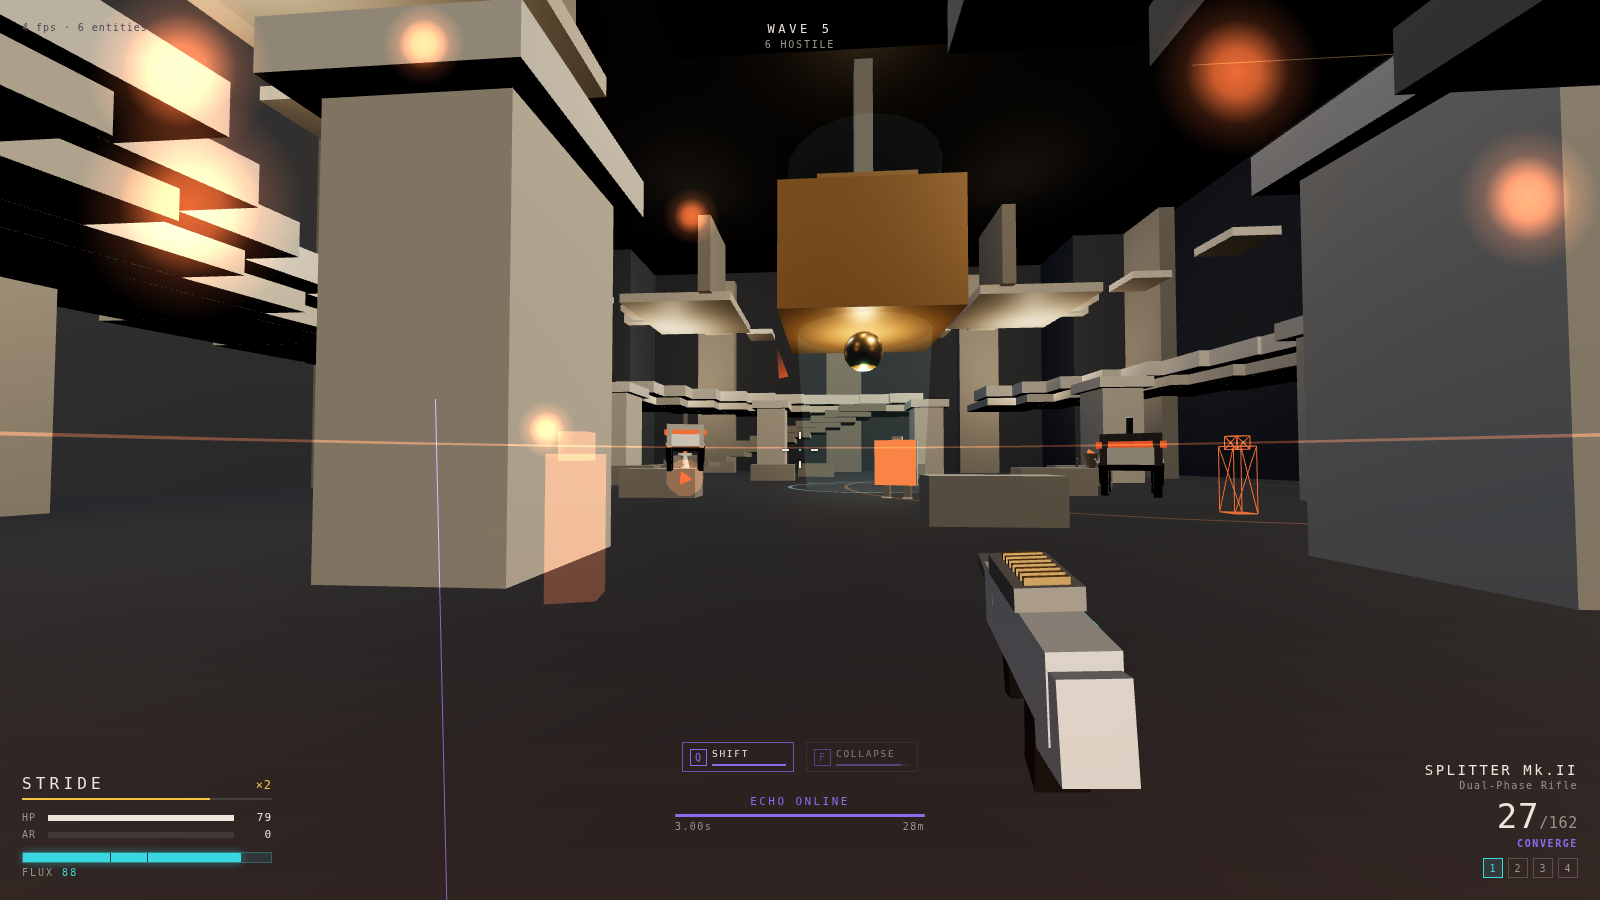
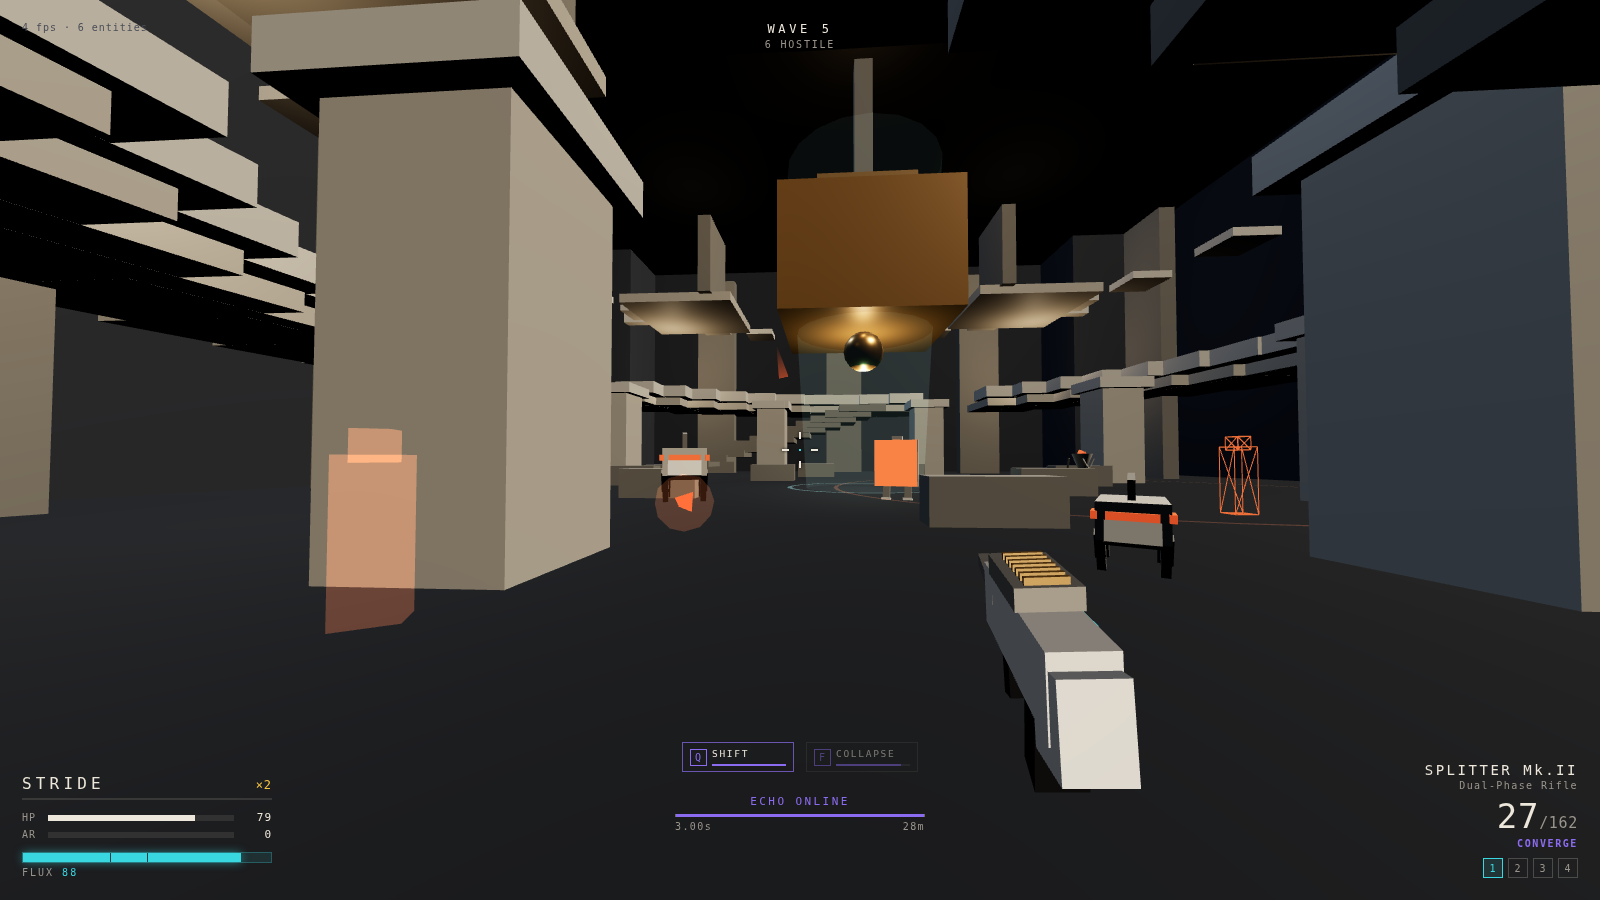
Polish pass: fixes the smoke test and the screenshots found
Four real defects, three of which were only visible by looking at what the
game actually renders rather than at what the code says:

- Monolith plating was omnidirectional. The design says the plate covers only
  the front 150 degrees so that "get behind it" is a real answer alongside
  "resonate through it", and isFrontal() existed but was never called. Wired
  it into the damage pipeline and covered it in the smoke test: a back shot
  now deals full damage with the plate intact, a frontal one is fully absorbed.

- Impact particles spawned on the player. A size-attenuated additive sprite
  60 cm from the eye is a 120-pixel disc pasted over the middle of the fight,
  and several at once blind you exactly when you need to see. Sparks within
  1.15 m of the camera are now discarded; the hurt flash, the directional
  indicator and the audio already carry that information.

- Particles were square. PointsMaterial with no map renders hard squares.
  Added a radial-gradient sprite generated into a canvas at load time, which
  keeps the promise that there is not one asset file in this repository.

- The arena was lit by four over-driven point lights that blew out into
  circular pools on every balcony underside. Retuned, and added lamps on the
  balcony ring so the upper shaft is navigable instead of black.

Also:
- README.de.md, since the project was commissioned in German.
- The smoke test reports renderer statistics; a full arena with a wave of
[…]

diff --git a/src/engine/Fx.js b/src/engine/Fx.js
@@ -109,6 +109,20 @@ export class Fx {
     this.shake = 0;
     /** Consumed by the HUD each frame. */
     this.hudEvents = [];
+    /** Updated every frame in step(); used to cull sparks born in your face. */
+    this.cameraPos = new THREE.Vector3();
+    /**
+     * Sparks spawned closer than this to the eye are discarded.
+     *
+     * When a Warden connects, the impact effect is spawned at the point it
+     * hit -- which is you. A size-attenuated additive particle 60 cm from the
+     * camera is not an effect, it is a 120-pixel orange disc pasted over the
+     * middle of the fight, and several of them at once blind you at exactly
+     * the moment you most need to see. The player already learns they were
+     * hit from the hurt flash, the directional indicator and the audio, so
+     * the particles are pure cost.
+     */
+    this.minSparkDistance = 1.15;
   }
 
   tracer(from, to, src = 'player', width = 1) {
@@ -129,6 +143,7 @@ export class Fx {
   }
 
   spark(pos, normal, count, src = 'player', speed = 5, colorOverride) {
+    if (pos.distanceToSquared(this.cameraPos) < this.minSparkDistance ** 2) return;
     const c = new THREE.Color(colorOverride ?? srcColor(src));
     for (let n = 0; n < count; n++) {
       const i = this.sparkHead;
@@ -224,6 +239,7 @@ export class Fx {
 
   step(dt, camera) {
     this.now += dt;
+    if (camera) this.cameraPos.copy(camera.position);
 
     for (let i = 0; i < this.maxTracers; i++) {
       if (this.tracerLife[i] <= 0) continue;

diff --git a/README.de.md b/README.de.md
@@ -1,0 +1,131 @@
+<div align="center">
+
+# ECHOSTRIDE
+
+### Kämpfe an der Seite des Geistes, der du warst.
+
+**Ein First-Person-Shooter, gebaut um eine einzige Idee:**
+*Eine Kopie von dir aus der Vergangenheit — drei Sekunden alt — kämpft an deiner Seite. Und du kannst mit ihr den Platz tauschen.*
+
+<sub>Die vollständige Dokumentation ist auf Englisch: <a href="README.md">README.md</a> · <a href="docs/">docs/</a></sub>
+
+</div>
+
+![Die Carillon](docs/shots/02-arena.png)
+
+---
+
+## Die Mechanik
+
+Ein durchscheinender, violetter **Strider** folgt dir — **drei Sekunden hinter
+dir**. Er geht, wo du gegangen bist. Er schießt, was du geschossen hast. Er
+macht **echten Schaden** (60 % von deinem), verbraucht keine Munition — und
+**er kann sterben**.
+
+| | |
+|---|---|
+| **`Q` — SHIFT** | Tausche den Platz mit deinem Echo. Du springst dorthin zurück, wo du vor drei Sekunden standest, mit der Geschwindigkeit, die du damals hattest — und dein Echo läuft die Route weiter, die du gerade verlassen hast. Ein Knopf macht aus einem Körper eine Zange. |
+| **RESONANZ** | Triffst du denselben Gegner wie dein Echo innerhalb einer **halben Sekunde**, ist das ein **Resonanzschlag**: doppelter Schaden — und das Einzige im Spiel, das schwere Panzerung bricht. Um das absichtlich zu schaffen, musst du **vor drei Sekunden** entschieden haben, worauf du jetzt schießt. |
+| **`F` — COLLAPSE** | Opfere dein Echo. Es implodiert, zieht Gegner hinein, und der Schaden skaliert damit, wie viel **es selbst** im Leben ausgeteilt hat. Danach bist du fünf Sekunden allein — und du merkst es. |
+| **PHASE-CATCH** | Ein tödlicher Treffer, dein Echo lebt, 50 Flux auf dem Konto? Dein vergangenes Ich fängt dich auf. Eine Wiederbelebung, die du Sekunden vorher bezahlt hast. |
+| **DER REGLER** | Stelle die Verzögerung zwischen **1,5 s und 5,0 s** ein. Kurz: fast doppelter Schaden direkt vor deiner Nase. Lang: eine zweite Front, einen Raum weiter. Die tiefste Build-Entscheidung des Spiels — und sie ist eine einzige Zahl. |
+
+---
+
+## Starten
+
+```bash
+npm install
+npm run dev          # → http://127.0.0.1:5173
+npm run build        # Produktions-Build: 620 kB, ~161 kB gzipped, null Asset-Dateien
+npm test             # Headless: startet den echten Build und prüft die Mechanik
+```
+
+Die **Design-Galerie** — jede Figur, jede Waffe und jeder Grundriss, live
+gerendert aus demselben Code wie das Spiel — liegt unter **`/gallery.html`**.
+
+---
+
+## Steuerung
+
+| | | | |
+|---|---|---|---|
+| Laufen | `W` `A` `S` `D` | **Zum Echo shiften** | **`Q`** |
+| Springen / Wandsprung | `Leertaste` | **Echo kollabieren** | **`F`** |
+| Rutschen *(ab Tempo)* | `Strg` | Verzögerung ± | `+` `-` |
+| Sprinten | `Umschalt links` | Feuer / Klinge / Nachladen | `LMB` `V` `R` |
+
+Gamepad wird vollständig unterstützt — **SHIFT liegt auf `RB`**, dem besten
+Knopf am Controller, weil es ein Bewegungsverb ist, das man unter Beschuss
+drückt. Alles ist frei belegbar.
+Begründung für jede einzelne Taste: **[docs/CONTROLS.md](docs/CONTROLS.md)**
+
+---
+
+## Das Arsenal
+
+Jede Waffe ist für sich gut — **und bedeutet etwas anderes in der Hand deines Echos.**
+
+| | Echo-Synergie | Was sie von dir verlangt |
+|---|---|---|
+| **SPLITTER Mk.II** · Salvengewehr | **CONVERGE** — Schüsse durchschlagen ein Ziel, das dein Echo gerade getroffen hat | Triffst du dasselbe Ziel zweimal, drei Sekunden auseinander? |
+| **REND** · Harmonische Schrotflinte | **STANDING WAVE** — +80 %, wenn du und dein Echo von gegenüberliegenden Seiten feuert | Schaffst du es in drei Sekunden auf *die andere Seite*? |
+| **KETTLE** · Verzögerungswerfer | **SYNCHRONY** — die Zündzeit **ist** deine Echo-Verzögerung | Weißt du, wo der Kampf in drei Sekunden stattfindet? |
+| **LATTICE** · Fessel-Gewehr | **WEB** — dein Echo legt auch Fesseln, das Netz ist immer größer als das, was du gezogen hast | Planst du eine Form statt eines Schusses? |
+| **THRESH** · Kinetische Klinge | **RETURN** — parierte Geschosse werden in die Zeitlinie deines Echos geschoben | Schenkst du deinem vergangenen Ich eine Waffe? |
+
+---
+
+## Die Stillness
+
+Ein Orden, der Rekursion für eine Krankheit hält. Jeder Gegnertyp lehrt **genau
+eine** Lektion über das Echo — und ist **auf langweilige Weise unbesiegbar**,
+wenn man sie ignoriert.
+
+| | |
+|---|---|
+| **WARDEN** | Dein Echo ist ein Körper. Sie jagen es. Nutze das. |
+| **PSALM** | Dinge können ein bewegtes Ziel vorhalten. Du auch. |
+| **MONOLITH** | Die Frontpanzerung schluckt *alles*. Nur Resonanz bricht sie. |
+| **HUSH** | Unsichtbar — sein eigenes Echo aber nicht. Lies es, und schieße drei Sekunden voraus. |
+| **CANTOR** | Sein Feld friert die Wiedergabe deines Echos ein. Töte ihn zuerst. |
+
+---
+
+## Woraus es sich entwickelt
+
+| | Übernommen | Verändert |
+|---|---|---|
+| **Quake** | Gerichtete Luftbeschleunigung, Strafe-Jumping | Fast wortwörtlich behalten — es wurde seither nicht verbessert |
+| **Titanfall 2 / Apex** | Slide, Wall-Run, Slide-Hop-Ketten | **Folgenreich** gemacht: deine Route wird die Route deines Verbündeten |
+| **DOOM Eternal** | Aggression als Überleben, Ressourcenknappheit | Drei Ressourcen auf **eine** Leiste reduziert: Flux, verdient durch Schaden *und* Tempo |
+| **ULTRAKILL** | Stil-Meter, das Kreativität belohnt | „Sei abwechslungsreich" ersetzt durch „sei **koordiniert**" |
+| **Halo** | Sandbox-Vielfalt, situative Waffen | Die situative Identität kommt vom Echo, nicht von einer Schwächen-Tabelle |
+| **SUPERHOT** | Zeit als etwas, in dem man denkt | Dasselbe Denken, aber in voller Geschwindigkeit — ein Shooter, kein Puzzle |
+
+Jedes dieser Spiele hat **eine** Schleife perfektioniert und die anderen
+drangeschraubt. ECHOSTRIDE führt vier Schleifen auf eine Frage zurück —
+**was wirst du in drei Sekunden getan haben wollen?** — und lässt Aggression,
+Bewegung, Stil und Sandbox-Lesen allesamt Antworten darauf sein.
+
+---
+
+## Dokumentation (englisch)
+
+| | |
+|---|---|
+| [GAME_DESIGN.md](docs/GAME_DESIGN.md) | Das vollständige Design-Dokument, inklusive offener Probleme |
+| [ECHO_SHIFT.md](docs/ECHO_SHIFT.md) | Die Mechanik: Regeln, Tuning-Tabellen, und was gestrichen wurde |
+| [CHARACTERS.md](docs/CHARACTERS.md) | Der Strider, fünf Harness-Varianten, das Bestiarium |
+| [WEAPONS.md](docs/WEAPONS.md) | Das Arsenal und seine Echo-Synergien |
+| [MAPS.md](docs/MAPS.md) | Die drei Gesetze einer ECHOSTRIDE-Map; CARILLON im Detail |
+| [CONTROLS.md](docs/CONTROLS.md) | Vollständige Belegung mit Begründung |
+| [ART_DIRECTION.md](docs/ART_DIRECTION.md) | Chromatic Brutalism: das Farbgesetz, Formensprache, Sound |
+
+---
+
+<div align="center">
+<sub><i>Carillon: ein Glockenspiel, bei dem jeder angeschlagene Ton weiterklingt,<br>
+während du den nächsten spielst. Schlägst du einen Akkord,<br>
+begleitest du dich selbst mit Tönen, die du Sekunden zuvor gemacht hast.</i></sub>
+</div>

diff --git a/docs/GAME_DESIGN.md b/docs/GAME_DESIGN.md
@@ -152,7 +152,7 @@ fighting in three seconds — is *continuous*. There is no point at which you ha
 | Decision | Why |
 |---|---|
 | **Three.js, browser, no engine** | The game loads from a link in under a second. For a game whose pitch requires *experiencing* the mechanic, a 4 GB download would be the design's biggest enemy. |
-| **Zero assets** | No textures, no models, no audio files. Everything is procedural geometry and synthesised sound. The build is one JS file. |
+| **Zero assets** | No textures, no models, no audio files. Everything is procedural geometry and synthesised sound. The whole build is 620 kB on disk, 161 kB gzipped. |
 | **Fixed 60 Hz simulation** | Required by the recorder: it indexes frames by tick count, and the echo's replay must be frame-rate independent. |
 | **Replay state, not input** | Replaying inputs needs eternal bit-exact determinism. Replaying positions cannot desync. See [ECHO_SHIFT.md §5](ECHO_SHIFT.md#5-why-replay-state-not-replay-input). |
 | **AABB brush collision** | Fast, exact, debuggable, and it gives *predictable* wall-run surfaces. Curved collision is where movement shooters go to die. |
@@ -167,10 +167,21 @@ it, both selves dealt damage, a Resonant Strike fired and shattered Monolith
 plating, all four weapons worked, and COLLAPSE consumed the echo.
 
 It is not a unit-test suite. It answers the only question that matters for a
-game — *is the thing playable right now* — and it has already caught two real
-bugs that no amount of reading would have: a pause overlay covering the main
-menu on load, and an arena boundary a sprinting player could walk straight
-through.
+game — *is the thing playable right now* — and it has already caught four real
+bugs that no amount of reading would have:
+
+1. A pause overlay covering the main menu on load.
+2. An arena boundary a sprinting player could walk straight through.
+3. A weapon view model parented to the world origin instead of the camera
+   (caught by looking at the screenshot the test takes).
+4. Impact particles spawned *on* the player, which at 60 cm from the eye
+   became screen-filling discs at exactly the moment you needed to see.
+
+### Performance
+A full arena with a wave of enemies on screen costs **28 draw calls and about
+3,000 triangles**. Everything is merged per material at build time and there is
+nothing to stream, so the frame budget is dominated by the browser rather than
+by this game.
 
 ---
 

diff --git a/README.md b/README.md
@@ -7,6 +7,8 @@
 **A first-person shooter built around one idea:**
 *a copy of you from three seconds ago fights at your side — and you can trade places with it.*
 
+<sub><a href="README.de.md">Auf Deutsch lesen →</a></sub>
+
 </div>
 
 ![The Carillon](docs/shots/02-arena.png)
@@ -42,7 +44,7 @@ npm run dev          # → http://127.0.0.1:5173
 ```
 
 ```bash
-npm run build        # production build, ~590 kB (157 kB gzipped), zero assets
+npm run build        # production build, 620 kB on disk, ~161 kB gzipped, zero asset files
 npm run test:smoke   # headless: boots the real build and verifies the mechanic
 ```
 
@@ -217,9 +219,14 @@ Five decisions worth knowing about:
 - **Every tunable is in `Tuning.js`.** Balancing is a single-file activity, and
   the docs quote the constant names directly.
 - **The smoke test boots the real build in Chromium** and asserts the mechanic
-  actually happened. It has already caught two bugs reading never would have:
-  a pause overlay covering the main menu, and an arena wall a sprinting player
-  could walk straight through.
+  actually happened. It has already caught three bugs reading never would have:
+  a pause overlay covering the main menu, an arena wall a sprinting player
+  could walk straight through, and a weapon model parented to the world origin
+  instead of the camera.
+
+A full arena with a wave of enemies on screen costs **28 draw calls and about
+3,000 triangles** — everything is merged per material, and there is nothing to
+stream. The bottleneck on any real GPU is the browser, not this game.
 
 ---
 

diff --git a/docs/ART_DIRECTION.md b/docs/ART_DIRECTION.md
@@ -45,7 +45,7 @@ noise. Adding a fifth signal colour would cost more than any effect it bought.
   needs detail to read, it is the wrong shape.
 - **No textures at all.** Every surface in the game is flat colour plus light.
   This began as an engineering constraint (zero asset pipeline, instant load,
-  the entire build under 1 MB gzipped, works offline) and turned out to be the
+  the whole build 161 kB gzipped, works offline) and turned out to be the
   right artistic answer: brutalist forms read better untextured, and the colour
   law stays uncontaminated.
 - **Asymmetry with a reason.** The Strider's left side carries the harness and
